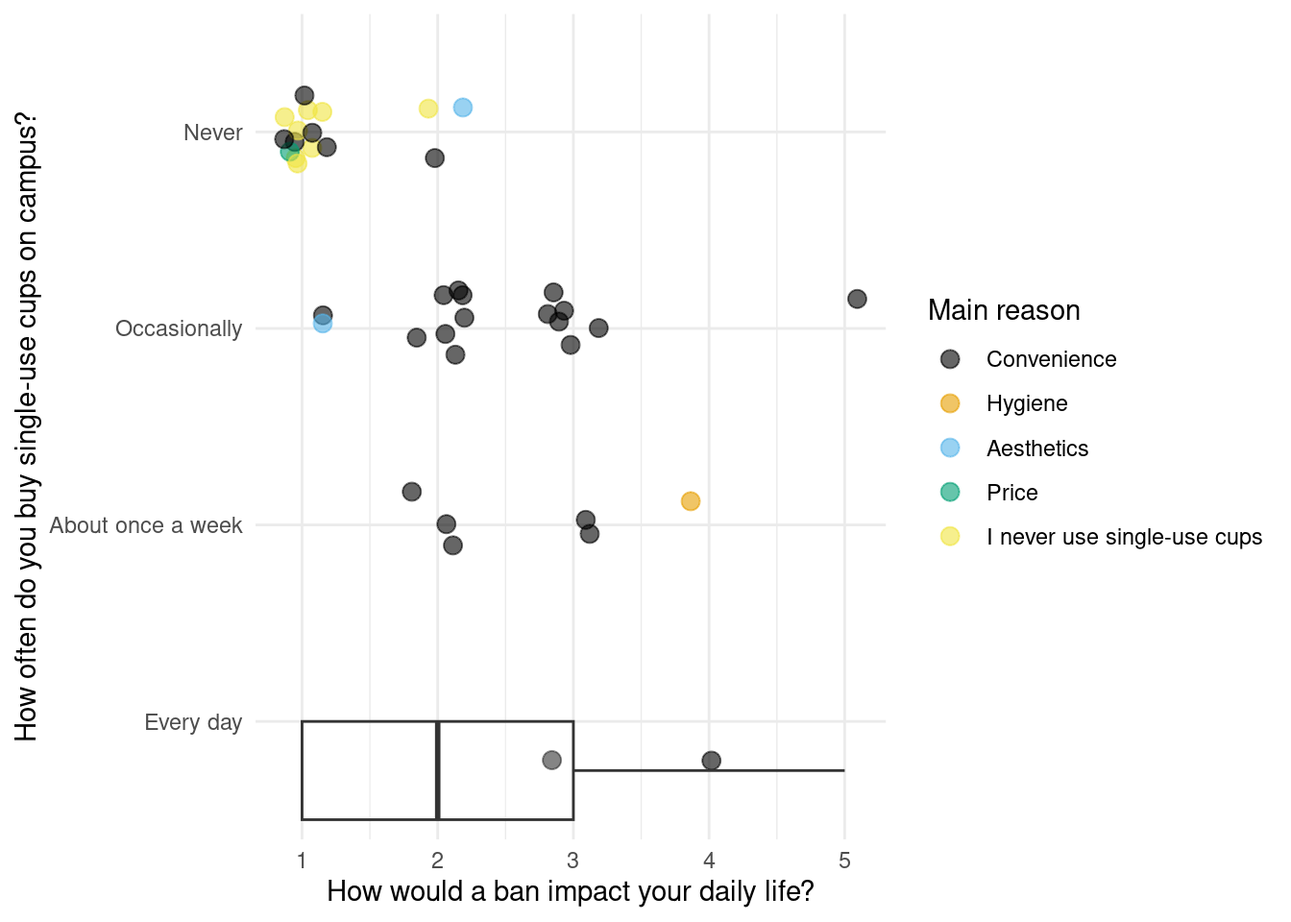
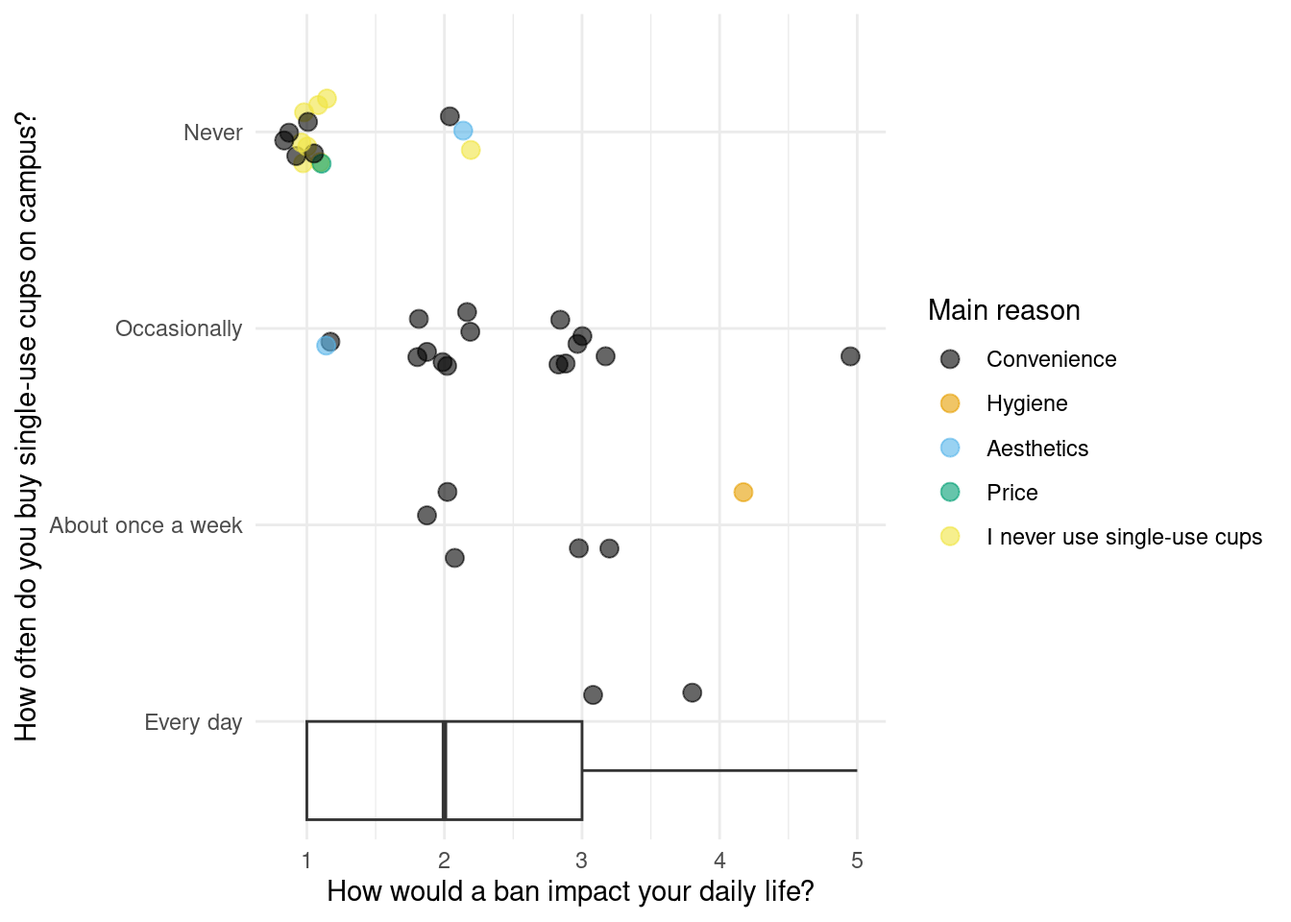
more plots, legends everywhere, no warnings

diff --git a/docs/index.html b/docs/index.html
@@ -298,7 +298,7 @@ Figure&nbsp;3: Opinions on waste reduction and recycling in general
 </section>
 <section id="single-use-cup-habits" class="level2">
 <h2 class="anchored" data-anchor-id="single-use-cup-habits">Single-use cup habits</h2>
-<p>Respondents were then asked about their usage of single use cups and how much a ban would affect them in daily life.</p>
+<p>When asked about their habits with buying drinks single-use cups on campus, most respondents answered that they never or occasionally bought single-use cups, and if they did, the overwhelming majority choose “convenience” as their main reason as seen in <a href="#fig-habits" class="quarto-xref">Figure&nbsp;4</a>.</p>
 <div class="cell">
 <details class="code-fold">
 <summary>Code</summary>
@@ -331,16 +331,16 @@ Figure&nbsp;4: Single-use cup usage frequency and main reason
 </div>
 </div>
 </div>
-<div class="cell">
+<p>Depending on personal preferences or other factors, a ban on single-use cups can have an impact on daily life. When asked to rank this impact on a scale of 1 (“I wouldn’t notice”) to 5 (“It would have a negative impact on my daily life”), most respondents answered 1 (“I wouldn’t notice”) as seen in <a href="#fig-impact" class="quarto-xref">Figure&nbsp;5</a> (a). In <a href="#fig-impact" class="quarto-xref">Figure&nbsp;5</a> (b) these results are complemented with the previous answer about the usage frequency, revealing that generally - the more respondets bought drinks in single-use cups, the higher they would consider the negative impact on their daily life.</p>
 <details class="code-fold">
 <summary>Code</summary>
-<div class="sourceCode cell-code" id="cb6"><pre class="sourceCode r code-with-copy"><code class="sourceCode r"><span id="cb6-1"><a href="#cb6-1" aria-hidden="true" tabindex="-1"></a><span class="fu">ggplot</span>(<span class="at">data =</span> df, </span>
-<span id="cb6-2"><a href="#cb6-2" aria-hidden="true" tabindex="-1"></a>       <span class="at">mapping =</span> <span class="fu">aes</span>(<span class="at">x =</span> <span class="fu">reorder</span>(institution, institution, length),</span>
-<span id="cb6-3"><a href="#cb6-3" aria-hidden="true" tabindex="-1"></a>                     <span class="at">fill =</span> field)) <span class="sc">+</span></span>
-<span id="cb6-4"><a href="#cb6-4" aria-hidden="true" tabindex="-1"></a>  <span class="fu">geom_bar</span>() <span class="sc">+</span></span>
-<span id="cb6-5"><a href="#cb6-5" aria-hidden="true" tabindex="-1"></a>  <span class="fu">coord_flip</span>() <span class="sc">+</span></span>
+<div class="sourceCode cell-code" id="cb6"><pre class="sourceCode r code-with-copy"><code class="sourceCode r"><span id="cb6-1"><a href="#cb6-1" aria-hidden="true" tabindex="-1"></a><span class="fu">ggplot</span>(<span class="at">data =</span> df) <span class="sc">+</span></span>
+<span id="cb6-2"><a href="#cb6-2" aria-hidden="true" tabindex="-1"></a>  <span class="fu">geom_bar</span>(<span class="at">mapping =</span> <span class="fu">aes</span>(<span class="at">x =</span> singleusecup_ban_impact,</span>
+<span id="cb6-3"><a href="#cb6-3" aria-hidden="true" tabindex="-1"></a>                     <span class="at">fill =</span> singleusecup_reason)) <span class="sc">+</span></span>
+<span id="cb6-4"><a href="#cb6-4" aria-hidden="true" tabindex="-1"></a>  <span class="fu">geom_boxplot</span>(<span class="at">mapping =</span> <span class="fu">aes</span>(<span class="at">x =</span> singleusecup_ban_impact), <span class="at">color =</span> <span class="st">"red"</span>,</span>
+<span id="cb6-5"><a href="#cb6-5" aria-hidden="true" tabindex="-1"></a>               <span class="at">alpha =</span> <span class="fl">0.2</span>, <span class="at">position =</span> <span class="fu">position_nudge</span>(<span class="at">y=</span><span class="fl">2.75</span>), <span class="at">width =</span> <span class="dv">3</span>) <span class="sc">+</span></span>
 <span id="cb6-6"><a href="#cb6-6" aria-hidden="true" tabindex="-1"></a>  <span class="fu">scale_y_continuous</span>(<span class="at">breaks =</span> <span class="fu">seq</span>(<span class="at">from =</span> <span class="dv">0</span>, <span class="at">to =</span> <span class="dv">100</span>, <span class="at">by =</span> <span class="dv">2</span>)) <span class="sc">+</span></span>
-<span id="cb6-7"><a href="#cb6-7" aria-hidden="true" tabindex="-1"></a>  <span class="fu">labs</span>(<span class="at">x =</span> <span class="st">"Institution"</span>,</span>
+<span id="cb6-7"><a href="#cb6-7" aria-hidden="true" tabindex="-1"></a>  <span class="fu">labs</span>(<span class="at">x =</span> <span class="st">"How would a ban impact your daily life?"</span>,</span>
 <span id="cb6-8"><a href="#cb6-8" aria-hidden="true" tabindex="-1"></a>       <span class="at">y =</span> <span class="st">"Number of responses"</span>) <span class="sc">+</span></span>
 <span id="cb6-9"><a href="#cb6-9" aria-hidden="true" tabindex="-1"></a>  <span class="fu">theme_minimal</span>() <span class="sc">+</span></span>
 <span id="cb6-10"><a href="#cb6-10" aria-hidden="true" tabindex="-1"></a>  <span class="fu">scale_fill_colorblind</span>() <span class="sc">+</span></span>
@@ -362,44 +362,210 @@ Figure&nbsp;4: Single-use cup usage frequency and main reason
 <span id="cb6-26"><a href="#cb6-26" aria-hidden="true" tabindex="-1"></a>       <span class="at">color =</span> <span class="st">"Main reason"</span>) <span class="sc">+</span></span>
 <span id="cb6-27"><a href="#cb6-27" aria-hidden="true" tabindex="-1"></a>  <span class="fu">theme_minimal</span>()</span></code><button title="Copy to Clipboard" class="code-copy-button"><i class="bi"></i></button></pre></div>
 </details>
-<div id="fig-impact" class="cell quarto-figure quarto-figure-center quarto-float anchored">
+<div id="fig-impact" class="quarto-layout-panel">
 <figure class="quarto-float quarto-float-fig figure">
 <div aria-describedby="fig-impact-caption-0ceaefa1-69ba-4598-a22c-09a6ac19f8ca">
-<div class="cell-output-display">
-<div id="fig-impact-1" class="quarto-figure quarto-figure-center quarto-float anchored" width="672">
+<div class="quarto-layout-row">
+<div class="cell-output-display quarto-layout-cell-subref quarto-layout-cell" data-ref-parent="fig-impact" style="flex-basis: 50.0%;justify-content: flex-start;">
+<div id="fig-impact-1" class="quarto-figure quarto-figure-center quarto-float anchored">
 <figure class="quarto-float quarto-subfloat-fig figure">
 <div aria-describedby="fig-impact-1-caption-0ceaefa1-69ba-4598-a22c-09a6ac19f8ca">
-<img src="index_files/figure-html/fig-impact-1.png" id="fig-impact-1" class="img-fluid figure-img" data-ref-parent="fig-impact" width="672">
+<img src="index_files/figure-html/fig-impact-1.png" class="img-fluid figure-img" data-ref-parent="fig-impact" width="672">
 </div>
 <figcaption class="quarto-float-caption-bottom quarto-subfloat-caption quarto-subfloat-fig" id="fig-impact-1-caption-0ceaefa1-69ba-4598-a22c-09a6ac19f8ca">
-(a)
+(a) Ban impact on daily life with main reason
 </figcaption>
 </figure>
 </div>
 </div>
-<div class="cell-output-display">
+<div class="cell-output-display quarto-layout-cell-subref quarto-layout-cell" data-ref-parent="fig-impact" style="flex-basis: 50.0%;justify-content: flex-start;">
 <div id="fig-impact-2" class="quarto-figure quarto-figure-center quarto-float anchored">
 <figure class="quarto-float quarto-subfloat-fig figure">
 <div aria-describedby="fig-impact-2-caption-0ceaefa1-69ba-4598-a22c-09a6ac19f8ca">
 <img src="index_files/figure-html/fig-impact-2.png" class="img-fluid figure-img" data-ref-parent="fig-impact" width="672">
 </div>
 <figcaption class="quarto-float-caption-bottom quarto-subfloat-caption quarto-subfloat-fig" id="fig-impact-2-caption-0ceaefa1-69ba-4598-a22c-09a6ac19f8ca">
-(b) Age distribution of respondents
+(b) Ban impact on daily life with usage frequency
 </figcaption>
 </figure>
+</div>
 </div>
 </div>
 </div>
 <figcaption class="quarto-float-caption-bottom quarto-float-caption quarto-float-fig" id="fig-impact-caption-0ceaefa1-69ba-4598-a22c-09a6ac19f8ca">
-Figure&nbsp;5: Single-use cup usage frequency and main reason
+Figure&nbsp;5: The negative impact on daily life of a ban on single-use cups
 </figcaption>
 </figure>
-</div>
 </div>
 </section>
 <section id="opinions-on-a-ban-on-single-use-cups" class="level2">
 <h2 class="anchored" data-anchor-id="opinions-on-a-ban-on-single-use-cups">Opinions on a ban on single-use cups</h2>
-<p>Lastly, what do respondents think about a ban on single-use cups?</p>
+<p>Lastly, what do respondents think about a ban on single-use cups? The question here was “Would you support a campus-wide ban on single-use cups at cafes, kiosks, cafeterias etc?”, and the answer could be given on a scale from 1 (“No, absolutely not”) to 5 (“Yes, absolutely”).</p>
+<details class="code-fold">
+<summary>Code</summary>
+<div class="sourceCode cell-code" id="cb7"><pre class="sourceCode r code-with-copy"><code class="sourceCode r"><span id="cb7-1"><a href="#cb7-1" aria-hidden="true" tabindex="-1"></a><span class="fu">ggplot</span>(<span class="at">data =</span> df) <span class="sc">+</span></span>
+<span id="cb7-2"><a href="#cb7-2" aria-hidden="true" tabindex="-1"></a>  <span class="fu">geom_bar</span>(<span class="at">mapping =</span> <span class="fu">aes</span>(<span class="at">x =</span> singleusecup_ban_support,</span>
+<span id="cb7-3"><a href="#cb7-3" aria-hidden="true" tabindex="-1"></a>                     <span class="at">fill =</span> singleusecup_reason)) <span class="sc">+</span></span>
+<span id="cb7-4"><a href="#cb7-4" aria-hidden="true" tabindex="-1"></a>  <span class="fu">geom_boxplot</span>(<span class="at">mapping =</span> <span class="fu">aes</span>(<span class="at">x =</span> singleusecup_ban_support), <span class="at">color =</span> <span class="st">"red"</span>,</span>
+<span id="cb7-5"><a href="#cb7-5" aria-hidden="true" tabindex="-1"></a>               <span class="at">alpha =</span> <span class="fl">0.2</span>, <span class="at">position =</span> <span class="fu">position_nudge</span>(<span class="at">y=</span><span class="fl">2.75</span>), <span class="at">width =</span> <span class="dv">3</span>) <span class="sc">+</span></span>
+<span id="cb7-6"><a href="#cb7-6" aria-hidden="true" tabindex="-1"></a>  <span class="fu">scale_y_continuous</span>(<span class="at">breaks =</span> <span class="fu">seq</span>(<span class="at">from =</span> <span class="dv">0</span>, <span class="at">to =</span> <span class="dv">100</span>, <span class="at">by =</span> <span class="dv">2</span>)) <span class="sc">+</span></span>
+<span id="cb7-7"><a href="#cb7-7" aria-hidden="true" tabindex="-1"></a>  <span class="fu">labs</span>(<span class="at">x =</span> <span class="st">"Support for a ban on single-use cups from 1 to 5"</span>,</span>
+<span id="cb7-8"><a href="#cb7-8" aria-hidden="true" tabindex="-1"></a>       <span class="at">y =</span> <span class="st">"Number of responses"</span>) <span class="sc">+</span></span>
+<span id="cb7-9"><a href="#cb7-9" aria-hidden="true" tabindex="-1"></a>  <span class="fu">theme_minimal</span>() <span class="sc">+</span></span>
+<span id="cb7-10"><a href="#cb7-10" aria-hidden="true" tabindex="-1"></a>  <span class="fu">scale_fill_colorblind</span>() <span class="sc">+</span></span>
+<span id="cb7-11"><a href="#cb7-11" aria-hidden="true" tabindex="-1"></a>  <span class="fu">theme</span>(<span class="at">legend.position =</span> <span class="st">"none"</span>)</span>
+<span id="cb7-12"><a href="#cb7-12" aria-hidden="true" tabindex="-1"></a></span>
+<span id="cb7-13"><a href="#cb7-13" aria-hidden="true" tabindex="-1"></a></span>
+<span id="cb7-14"><a href="#cb7-14" aria-hidden="true" tabindex="-1"></a></span>
+<span id="cb7-15"><a href="#cb7-15" aria-hidden="true" tabindex="-1"></a><span class="fu">ggplot</span>(<span class="at">data =</span> df) <span class="sc">+</span></span>
+<span id="cb7-16"><a href="#cb7-16" aria-hidden="true" tabindex="-1"></a>  <span class="fu">geom_jitter</span>(<span class="at">mapping =</span> <span class="fu">aes</span>(<span class="at">x =</span> singleusecup_ban_support,</span>
+<span id="cb7-17"><a href="#cb7-17" aria-hidden="true" tabindex="-1"></a>                            <span class="at">y =</span> singleusecup_frequency,</span>
+<span id="cb7-18"><a href="#cb7-18" aria-hidden="true" tabindex="-1"></a>                            <span class="at">color =</span> singleusecup_reason),</span>
+<span id="cb7-19"><a href="#cb7-19" aria-hidden="true" tabindex="-1"></a>              <span class="at">size =</span> <span class="dv">3</span>, <span class="at">alpha =</span> <span class="fl">0.6</span>, <span class="at">width =</span> <span class="fl">0.2</span>, <span class="at">height =</span> <span class="fl">0.2</span>) <span class="sc">+</span></span>
+<span id="cb7-20"><a href="#cb7-20" aria-hidden="true" tabindex="-1"></a>  <span class="fu">geom_boxplot</span>(<span class="at">mapping =</span> <span class="fu">aes</span>(<span class="at">x =</span> singleusecup_ban_support),</span>
+<span id="cb7-21"><a href="#cb7-21" aria-hidden="true" tabindex="-1"></a>               <span class="at">alpha =</span> <span class="fl">0.2</span>, <span class="at">position =</span> <span class="fu">position_nudge</span>(<span class="at">y=</span><span class="fl">0.75</span>), <span class="at">width =</span> <span class="fl">0.5</span>) <span class="sc">+</span></span>
+<span id="cb7-22"><a href="#cb7-22" aria-hidden="true" tabindex="-1"></a>  <span class="fu">geom_smooth</span>(<span class="at">mapping =</span> <span class="fu">aes</span>(<span class="at">x =</span> singleusecup_ban_support,</span>
+<span id="cb7-23"><a href="#cb7-23" aria-hidden="true" tabindex="-1"></a>                            <span class="at">y =</span> singleusecup_frequency), <span class="at">alpha =</span> <span class="fl">0.2</span>) <span class="sc">+</span></span>
+<span id="cb7-24"><a href="#cb7-24" aria-hidden="true" tabindex="-1"></a>  <span class="fu">scale_x_continuous</span>(<span class="at">breaks =</span> <span class="fu">seq</span>(<span class="at">from =</span> <span class="dv">0</span>, <span class="at">to =</span> <span class="dv">100</span>, <span class="at">by =</span> <span class="dv">1</span>)) <span class="sc">+</span></span>
+<span id="cb7-25"><a href="#cb7-25" aria-hidden="true" tabindex="-1"></a>  <span class="fu">scale_color_colorblind</span>(<span class="at">labels =</span> <span class="fu">c</span>(<span class="st">"Convenience"</span>, <span class="st">"Hygiene"</span>, <span class="st">"Aesthetics"</span>, <span class="st">"Price"</span>, <span class="st">"I never use single-use cups"</span>)) <span class="sc">+</span></span>
+<span id="cb7-26"><a href="#cb7-26" aria-hidden="true" tabindex="-1"></a>  <span class="fu">labs</span>(<span class="at">x =</span> <span class="st">"Support for a ban on single-use cups from 1 to 5"</span>,</span>
+<span id="cb7-27"><a href="#cb7-27" aria-hidden="true" tabindex="-1"></a>       <span class="at">y =</span> <span class="st">"How often do you buy single-use cups on campus?"</span>,</span>
+<span id="cb7-28"><a href="#cb7-28" aria-hidden="true" tabindex="-1"></a>       <span class="at">color =</span> <span class="st">"Main reason"</span>) <span class="sc">+</span></span>
+<span id="cb7-29"><a href="#cb7-29" aria-hidden="true" tabindex="-1"></a>  <span class="fu">theme_minimal</span>()</span>
+<span id="cb7-30"><a href="#cb7-30" aria-hidden="true" tabindex="-1"></a></span>
+<span id="cb7-31"><a href="#cb7-31" aria-hidden="true" tabindex="-1"></a><span class="fu">ggplot</span>(<span class="at">data =</span> df) <span class="sc">+</span></span>
+<span id="cb7-32"><a href="#cb7-32" aria-hidden="true" tabindex="-1"></a>  <span class="fu">geom_jitter</span>(<span class="at">mapping =</span> <span class="fu">aes</span>(<span class="at">x =</span> singleusecup_ban_support,</span>
+<span id="cb7-33"><a href="#cb7-33" aria-hidden="true" tabindex="-1"></a>                            <span class="at">y =</span> singleusecup_ban_impact,</span>
+<span id="cb7-34"><a href="#cb7-34" aria-hidden="true" tabindex="-1"></a>                            <span class="at">color =</span> singleusecup_reason),</span>
+<span id="cb7-35"><a href="#cb7-35" aria-hidden="true" tabindex="-1"></a>              <span class="at">size =</span> <span class="dv">3</span>, <span class="at">alpha =</span> <span class="fl">0.6</span>, <span class="at">width =</span> <span class="fl">0.2</span>, <span class="at">height =</span> <span class="fl">0.2</span>) <span class="sc">+</span></span>
+<span id="cb7-36"><a href="#cb7-36" aria-hidden="true" tabindex="-1"></a>  <span class="fu">geom_boxplot</span>(<span class="at">mapping =</span> <span class="fu">aes</span>(<span class="at">x =</span> singleusecup_ban_support),</span>
+<span id="cb7-37"><a href="#cb7-37" aria-hidden="true" tabindex="-1"></a>               <span class="at">alpha =</span> <span class="fl">0.2</span>, <span class="at">position =</span> <span class="fu">position_nudge</span>(<span class="at">y=</span><span class="fl">0.75</span>), <span class="at">width =</span> <span class="fl">0.5</span>) <span class="sc">+</span></span>
+<span id="cb7-38"><a href="#cb7-38" aria-hidden="true" tabindex="-1"></a>  <span class="fu">geom_boxplot</span>(<span class="at">mapping =</span> <span class="fu">aes</span>(<span class="at">y =</span> singleusecup_ban_impact),</span>
+<span id="cb7-39"><a href="#cb7-39" aria-hidden="true" tabindex="-1"></a>               <span class="at">alpha =</span> <span class="fl">0.2</span>, <span class="at">position =</span> <span class="fu">position_nudge</span>(<span class="at">x=</span><span class="fl">0.75</span>), <span class="at">width =</span> <span class="fl">0.5</span>) <span class="sc">+</span></span>
+<span id="cb7-40"><a href="#cb7-40" aria-hidden="true" tabindex="-1"></a>  <span class="fu">geom_smooth</span>(<span class="at">mapping =</span> <span class="fu">aes</span>(<span class="at">x =</span> singleusecup_ban_support,</span>
+<span id="cb7-41"><a href="#cb7-41" aria-hidden="true" tabindex="-1"></a>                            <span class="at">y =</span> singleusecup_ban_impact), <span class="at">alpha =</span> <span class="fl">0.2</span>) <span class="sc">+</span></span>
+<span id="cb7-42"><a href="#cb7-42" aria-hidden="true" tabindex="-1"></a>  <span class="fu">scale_x_continuous</span>(<span class="at">breaks =</span> <span class="fu">seq</span>(<span class="at">from =</span> <span class="dv">0</span>, <span class="at">to =</span> <span class="dv">100</span>, <span class="at">by =</span> <span class="dv">1</span>)) <span class="sc">+</span></span>
+<span id="cb7-43"><a href="#cb7-43" aria-hidden="true" tabindex="-1"></a>  <span class="fu">scale_color_colorblind</span>(<span class="at">labels =</span> <span class="fu">c</span>(<span class="st">"Convenience"</span>, <span class="st">"Hygiene"</span>, <span class="st">"Aesthetics"</span>, <span class="st">"Price"</span>, <span class="st">"I never use single-use cups"</span>)) <span class="sc">+</span></span>
+<span id="cb7-44"><a href="#cb7-44" aria-hidden="true" tabindex="-1"></a>  <span class="fu">labs</span>(<span class="at">x =</span> <span class="st">"Support for a ban on single-use cups from 1 to 5"</span>,</span>
+<span id="cb7-45"><a href="#cb7-45" aria-hidden="true" tabindex="-1"></a>       <span class="at">y =</span> <span class="st">"Negative impact on daily life"</span>,</span>
+<span id="cb7-46"><a href="#cb7-46" aria-hidden="true" tabindex="-1"></a>       <span class="at">color =</span> <span class="st">"Main reason"</span>) <span class="sc">+</span></span>
+<span id="cb7-47"><a href="#cb7-47" aria-hidden="true" tabindex="-1"></a>  <span class="fu">theme_minimal</span>()</span></code><button title="Copy to Clipboard" class="code-copy-button"><i class="bi"></i></button></pre></div>
+</details>
+<div id="fig-support" class="quarto-layout-panel">
+<figure class="quarto-float quarto-float-fig figure">
+<div aria-describedby="fig-support-caption-0ceaefa1-69ba-4598-a22c-09a6ac19f8ca">
+<div class="quarto-layout-row">
+<div class="cell-output-display quarto-layout-cell-subref quarto-layout-cell" data-ref-parent="fig-support" style="flex-basis: 50.0%;justify-content: flex-start;">
+<div id="fig-support-1" class="quarto-figure quarto-figure-center quarto-float anchored">
+<figure class="quarto-float quarto-subfloat-fig figure">
+<div aria-describedby="fig-support-1-caption-0ceaefa1-69ba-4598-a22c-09a6ac19f8ca">
+<img src="index_files/figure-html/fig-support-1.png" class="img-fluid figure-img" data-ref-parent="fig-support" width="672">
+</div>
+<figcaption class="quarto-float-caption-bottom quarto-subfloat-caption quarto-subfloat-fig" id="fig-support-1-caption-0ceaefa1-69ba-4598-a22c-09a6ac19f8ca">
+(a) Ban impact on daily life with main reason
+</figcaption>
+</figure>
+</div>
+</div>
+<div class="cell-output-display quarto-layout-cell-subref quarto-layout-cell" data-ref-parent="fig-support" style="flex-basis: 50.0%;justify-content: flex-start;">
+<div id="fig-support-2" class="quarto-figure quarto-figure-center quarto-float anchored">
+<figure class="quarto-float quarto-subfloat-fig figure">
+<div aria-describedby="fig-support-2-caption-0ceaefa1-69ba-4598-a22c-09a6ac19f8ca">
+<img src="index_files/figure-html/fig-support-2.png" class="img-fluid figure-img" data-ref-parent="fig-support" width="672">
+</div>
+<figcaption class="quarto-float-caption-bottom quarto-subfloat-caption quarto-subfloat-fig" id="fig-support-2-caption-0ceaefa1-69ba-4598-a22c-09a6ac19f8ca">
+(b) Ban impact on daily life with usage frequency
+</figcaption>
+</figure>
+</div>
+</div>
+</div>
+<div class="quarto-layout-row">
+<div class="cell-output-display quarto-layout-cell-subref quarto-layout-cell" data-ref-parent="fig-support" style="flex-basis: 50.0%;justify-content: flex-start;">
+<div id="fig-support-3" class="quarto-figure quarto-figure-center quarto-float anchored">
+<figure class="quarto-float quarto-subfloat-fig figure">
+<div aria-describedby="fig-support-3-caption-0ceaefa1-69ba-4598-a22c-09a6ac19f8ca">
+<img src="index_files/figure-html/fig-support-3.png" class="img-fluid figure-img" data-ref-parent="fig-support" width="672">
+</div>
+<figcaption class="quarto-float-caption-bottom quarto-subfloat-caption quarto-subfloat-fig" id="fig-support-3-caption-0ceaefa1-69ba-4598-a22c-09a6ac19f8ca">
+(c) Ban impact on daily life with main reason
+</figcaption>
+</figure>
+</div>
+</div>
+</div>
+</div>
+<figcaption class="quarto-float-caption-bottom quarto-float-caption quarto-float-fig" id="fig-support-caption-0ceaefa1-69ba-4598-a22c-09a6ac19f8ca">
+Figure&nbsp;6: Opinions on a ban on single-use cups
+</figcaption>
+</figure>
+</div>
+<p>Now, if we look at support in terms of study program and field, we can see no direct trend or tendency, but a wide range of opinions <a href="#fig-support-study" class="quarto-xref">Figure&nbsp;7</a> (a) and (b). This is probably also due to insufficient and non-respresentative data, but also reflects the fact that this topic is quite</p>
+<details class="code-fold">
+<summary>Code</summary>
+<div class="sourceCode cell-code" id="cb8"><pre class="sourceCode r code-with-copy"><code class="sourceCode r"><span id="cb8-1"><a href="#cb8-1" aria-hidden="true" tabindex="-1"></a><span class="fu">ggplot</span>(<span class="at">data =</span> df) <span class="sc">+</span></span>
+<span id="cb8-2"><a href="#cb8-2" aria-hidden="true" tabindex="-1"></a>  <span class="fu">geom_bar</span>(<span class="at">mapping =</span> <span class="fu">aes</span>(<span class="at">x =</span> singleusecup_ban_support,</span>
+<span id="cb8-3"><a href="#cb8-3" aria-hidden="true" tabindex="-1"></a>                     <span class="at">fill =</span> field)) <span class="sc">+</span></span>
+<span id="cb8-4"><a href="#cb8-4" aria-hidden="true" tabindex="-1"></a>  <span class="fu">geom_boxplot</span>(<span class="at">mapping =</span> <span class="fu">aes</span>(<span class="at">x =</span> singleusecup_ban_support),</span>
+<span id="cb8-5"><a href="#cb8-5" aria-hidden="true" tabindex="-1"></a>               <span class="at">alpha =</span> <span class="fl">0.2</span>, <span class="at">position =</span> <span class="fu">position_nudge</span>(<span class="at">y=</span><span class="fl">2.75</span>), <span class="at">width =</span> <span class="dv">3</span>) <span class="sc">+</span></span>
+<span id="cb8-6"><a href="#cb8-6" aria-hidden="true" tabindex="-1"></a>  <span class="fu">scale_y_continuous</span>(<span class="at">breaks =</span> <span class="fu">seq</span>(<span class="at">from =</span> <span class="dv">0</span>, <span class="at">to =</span> <span class="dv">100</span>, <span class="at">by =</span> <span class="dv">2</span>)) <span class="sc">+</span></span>
+<span id="cb8-7"><a href="#cb8-7" aria-hidden="true" tabindex="-1"></a>  <span class="fu">labs</span>(<span class="at">x =</span> <span class="st">"Support for a ban on single-use cups from 1 to 5"</span>,</span>
+<span id="cb8-8"><a href="#cb8-8" aria-hidden="true" tabindex="-1"></a>       <span class="at">y =</span> <span class="st">"Number of responses"</span>) <span class="sc">+</span></span>
+<span id="cb8-9"><a href="#cb8-9" aria-hidden="true" tabindex="-1"></a>  <span class="fu">theme_minimal</span>() <span class="sc">+</span></span>
+<span id="cb8-10"><a href="#cb8-10" aria-hidden="true" tabindex="-1"></a>  <span class="fu">scale_fill_colorblind</span>() <span class="sc">+</span></span>
+<span id="cb8-11"><a href="#cb8-11" aria-hidden="true" tabindex="-1"></a>  <span class="fu">theme</span>(<span class="at">legend.position =</span> <span class="st">"none"</span>)</span>
+<span id="cb8-12"><a href="#cb8-12" aria-hidden="true" tabindex="-1"></a></span>
+<span id="cb8-13"><a href="#cb8-13" aria-hidden="true" tabindex="-1"></a></span>
+<span id="cb8-14"><a href="#cb8-14" aria-hidden="true" tabindex="-1"></a></span>
+<span id="cb8-15"><a href="#cb8-15" aria-hidden="true" tabindex="-1"></a><span class="fu">ggplot</span>(<span class="at">data =</span> df) <span class="sc">+</span></span>
+<span id="cb8-16"><a href="#cb8-16" aria-hidden="true" tabindex="-1"></a>  <span class="fu">geom_jitter</span>(<span class="at">mapping =</span> <span class="fu">aes</span>(<span class="at">x =</span> singleusecup_ban_support,</span>
+<span id="cb8-17"><a href="#cb8-17" aria-hidden="true" tabindex="-1"></a>                            <span class="at">y =</span> position,</span>
+<span id="cb8-18"><a href="#cb8-18" aria-hidden="true" tabindex="-1"></a>                            <span class="at">color =</span> field),</span>
+<span id="cb8-19"><a href="#cb8-19" aria-hidden="true" tabindex="-1"></a>              <span class="at">size =</span> <span class="dv">3</span>, <span class="at">alpha =</span> <span class="fl">0.6</span>, <span class="at">width =</span> <span class="fl">0.2</span>, <span class="at">height =</span> <span class="fl">0.2</span>) <span class="sc">+</span></span>
+<span id="cb8-20"><a href="#cb8-20" aria-hidden="true" tabindex="-1"></a>  <span class="fu">geom_boxplot</span>(<span class="at">mapping =</span> <span class="fu">aes</span>(<span class="at">x =</span> singleusecup_ban_support),</span>
+<span id="cb8-21"><a href="#cb8-21" aria-hidden="true" tabindex="-1"></a>               <span class="at">alpha =</span> <span class="fl">0.2</span>, <span class="at">position =</span> <span class="fu">position_nudge</span>(<span class="at">y=</span><span class="fl">0.75</span>), <span class="at">width =</span> <span class="fl">0.5</span>) <span class="sc">+</span></span>
+<span id="cb8-22"><a href="#cb8-22" aria-hidden="true" tabindex="-1"></a>  <span class="fu">scale_x_continuous</span>(<span class="at">breaks =</span> <span class="fu">seq</span>(<span class="at">from =</span> <span class="dv">0</span>, <span class="at">to =</span> <span class="dv">100</span>, <span class="at">by =</span> <span class="dv">1</span>)) <span class="sc">+</span></span>
+<span id="cb8-23"><a href="#cb8-23" aria-hidden="true" tabindex="-1"></a>  <span class="fu">scale_color_colorblind</span>() <span class="sc">+</span></span>
+<span id="cb8-24"><a href="#cb8-24" aria-hidden="true" tabindex="-1"></a>  <span class="fu">labs</span>(<span class="at">x =</span> <span class="st">"Support for a ban on single-use cups from 1 to 5"</span>,</span>
+<span id="cb8-25"><a href="#cb8-25" aria-hidden="true" tabindex="-1"></a>       <span class="at">y =</span> <span class="st">"Study program"</span>,</span>
+<span id="cb8-26"><a href="#cb8-26" aria-hidden="true" tabindex="-1"></a>       <span class="at">color =</span> <span class="st">"Study field"</span>) <span class="sc">+</span></span>
+<span id="cb8-27"><a href="#cb8-27" aria-hidden="true" tabindex="-1"></a>  <span class="fu">theme_minimal</span>()</span></code><button title="Copy to Clipboard" class="code-copy-button"><i class="bi"></i></button></pre></div>
+</details>
+<div id="fig-support-study" class="quarto-layout-panel">
+<figure class="quarto-float quarto-float-fig figure">
+<div aria-describedby="fig-support-study-caption-0ceaefa1-69ba-4598-a22c-09a6ac19f8ca">
+<div class="quarto-layout-row">
+<div class="cell-output-display quarto-layout-cell-subref quarto-layout-cell" data-ref-parent="fig-support-study" style="flex-basis: 50.0%;justify-content: flex-start;">
+<div id="fig-support-study-1" class="quarto-figure quarto-figure-center quarto-float anchored">
+<figure class="quarto-float quarto-subfloat-fig figure">
+<div aria-describedby="fig-support-study-1-caption-0ceaefa1-69ba-4598-a22c-09a6ac19f8ca">
+<img src="index_files/figure-html/fig-support-study-1.png" class="img-fluid figure-img" data-ref-parent="fig-support-study" width="672">
+</div>
+<figcaption class="quarto-float-caption-bottom quarto-subfloat-caption quarto-subfloat-fig" id="fig-support-study-1-caption-0ceaefa1-69ba-4598-a22c-09a6ac19f8ca">
+(a) Support for a ban based on study field
+</figcaption>
+</figure>
+</div>
+</div>
+<div class="cell-output-display quarto-layout-cell-subref quarto-layout-cell" data-ref-parent="fig-support-study" style="flex-basis: 50.0%;justify-content: flex-start;">
+<div id="fig-support-study-2" class="quarto-figure quarto-figure-center quarto-float anchored">
+<figure class="quarto-float quarto-subfloat-fig figure">
+<div aria-describedby="fig-support-study-2-caption-0ceaefa1-69ba-4598-a22c-09a6ac19f8ca">
+<img src="index_files/figure-html/fig-support-study-2.png" class="img-fluid figure-img" data-ref-parent="fig-support-study" width="672">
+</div>
+<figcaption class="quarto-float-caption-bottom quarto-subfloat-caption quarto-subfloat-fig" id="fig-support-study-2-caption-0ceaefa1-69ba-4598-a22c-09a6ac19f8ca">
+(b) Support for a ban based on study program
+</figcaption>
+</figure>
+</div>
+</div>
+</div>
+</div>
+<figcaption class="quarto-float-caption-bottom quarto-float-caption quarto-float-fig" id="fig-support-study-caption-0ceaefa1-69ba-4598-a22c-09a6ac19f8ca">
+Figure&nbsp;7: Opinions on a ban on single-use cups based on study program and field
+</figcaption>
+</figure>
+</div>
 </section>
 </section>
 <section id="conclusions" class="level1">
